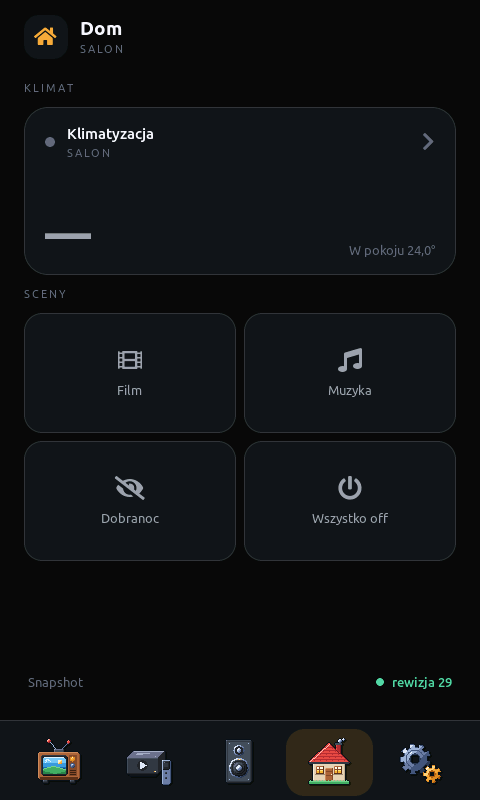
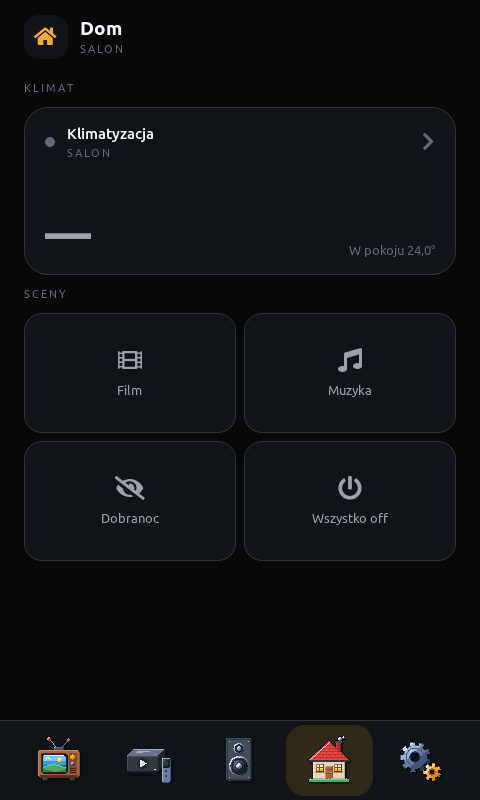
Restyle volume and climate dials after the HA thermostat
Volume dial grows to 296 px with a 22 px arc and a white knob with an
accent border; −/+ move from the sides into the gap at the bottom of
the arc and mute sits above the number. Pending volume no longer turns
the number orange (red stays for failures). The climate thermostat
gets the same −/+ placement.

Also drop the "Snapshot · rewizja N" row from the Home screen (the
revision is still in Diagnostics) and even out the tab bar padding
(4 + 72 + 4 instead of 8 + 68 + 4).

Mockups, Z906 and handoff docs and screenshots 01-05 updated.

diff --git a/docs/ux/mockup-pulpit/pulpit.css b/docs/ux/mockup-pulpit/pulpit.css
@@ -47,7 +47,7 @@
   /* Powłoka ekranu */
   /* 2026-11-03: nagłówek bez paska statusu — wiersz 64 px i 5 px od górnej krawędzi */
   --topbar: 69px;
-  --tabbar: 80px;   /* same ikony: 8 + 68 + 4 */
+  --tabbar: 80px;   /* same ikony: 4 + 72 + 4 */
   --gutter: 24px;
 
   /* Najmniejszy dopuszczalny cel dotyku: 68 px ≈ 8 mm na tym panelu */
@@ -82,7 +82,7 @@ button { font: inherit; color: inherit; border: 0; background: none; padding: 0;
 
 .content { flex: 1; min-height: 0; position: relative; padding: var(--s3) var(--gutter) var(--s4); }
 
-.tabbar { height: var(--tabbar); flex: none; display: grid; grid-auto-flow: column; grid-auto-columns: 1fr; gap: var(--s1); padding: var(--s2) var(--s4) var(--s1); background: var(--surface); border-top: 1px solid var(--line); }
+.tabbar { height: var(--tabbar); flex: none; display: grid; grid-auto-flow: column; grid-auto-columns: 1fr; gap: var(--s1); padding: var(--s1) var(--s4); background: var(--surface); border-top: 1px solid var(--line); }
 .tab { border-radius: var(--r3); color: var(--faint); display: grid; place-items: center; align-content: center; font-size: 0; }
 /* Same ikony, bez podpisów (2026-11-03); podpis zostaje w HTML dla czytników ekranu. */
 .tab i { width: 20px; height: 20px; }
@@ -153,18 +153,18 @@ button { font: inherit; color: inherit; border: 0; background: none; padding: 0;
 
 /* ---------- Tarcza wartości (obrót palcem) ---------- */
 .dial-zone { position: relative; display: grid; place-items: center; }
-.dial { --v: 42; width: 248px; height: 248px; position: relative; display: grid; place-items: center; border-radius: 50%; cursor: grab; touch-action: none; user-select: none;
+.dial { --v: 42; --size: 290px; --ring: 22px; width: var(--size); height: var(--size); position: relative; display: grid; place-items: center; border-radius: 50%; cursor: grab; touch-action: none; user-select: none;
   background: conic-gradient(from 225deg, var(--accent) 0 calc(var(--v) * 2.7deg), var(--surface-3) calc(var(--v) * 2.7deg) 270deg, transparent 270deg 360deg); }
-.dial::before { content: ""; position: absolute; inset: 18px; border-radius: 50%; background: var(--bg); }
+.dial::before { content: ""; position: absolute; inset: var(--ring); border-radius: 50%; background: var(--bg); }
 .dial.is-dragging { cursor: grabbing; }
-.dial-read { position: relative; text-align: center; }
+/* Uchwyt na końcu wypełnienia: jasne koło z obwódką w kolorze akcentu */
+.dial-knob { position: absolute; left: 50%; top: 50%; width: 28px; height: 28px; margin: -14px; border-radius: 50%; background: var(--text); border: 4px solid var(--accent); z-index: 1;
+  transform: rotate(calc(-135deg + var(--v) * 2.7deg)) translateY(calc(var(--size) / -2 + var(--ring) / 2)); }
+.dial-read { position: relative; text-align: center; padding-top: 64px; }
 .dial-read b { display: block; font-size: 64px; line-height: .9; font-weight: 700; letter-spacing: -.04em; font-variant-numeric: tabular-nums; }
 .dial-read span { display: block; margin-top: var(--s2); font-size: var(--t-cap); letter-spacing: .16em; text-transform: uppercase; color: var(--faint); }
-/* −/+ głośności: ten sam przycisk co przy tarczy temperatury, w osi tarczy */
-.dial-zone { width: 100%; }
-.thermo-step.vol-step { top: 50%; bottom: auto; transform: translateY(-50%); }
-.thermo-step.vol-step.minus { left: 0; }
-.thermo-step.vol-step.plus { right: 0; }
+/* −/+ głośności: ten sam przycisk co przy tarczy temperatury */
+.dial-zone { width: 296px; height: 296px; }
 /* Segment z bieżącą wartością (wejście, efekt): nazwa do szerokości, potem wielokropek */
 .value-pick { padding: 0 var(--s3); }
 .value-pick .opt-value { display: block; width: 100%; overflow: hidden; text-overflow: ellipsis; white-space: nowrap; }
@@ -174,7 +174,7 @@ button { font: inherit; color: inherit; border: 0; background: none; padding: 0;
 .decode-pill i { width: 8px; height: 8px; border-radius: 50%; background: var(--faint); }
 .decode-pill.is-on { color: var(--ok); border-color: rgba(86, 214, 160, .45); }
 .decode-pill.is-on i { background: var(--ok); }
-.dial-side { position: absolute; bottom: 2px; left: 50%; transform: translateX(-50%); width: 64px; height: 64px; border-radius: var(--rf); background: var(--surface-2); border: 1px solid var(--line); color: var(--dim); display: grid; place-items: center; }
+.dial-side { position: absolute; top: 76px; left: 50%; transform: translateX(-50%); width: 52px; height: 52px; border-radius: var(--rf); background: var(--surface-2); border: 1px solid var(--line); color: var(--dim); display: grid; place-items: center; }
 .dial-side i { width: 24px; height: 24px; }
 .dial-side.is-on { background: var(--danger-soft); border-color: transparent; color: var(--danger); }
 
@@ -215,6 +215,8 @@ button { font: inherit; color: inherit; border: 0; background: none; padding: 0;
 /* ---------- Stany wspólne dla każdego sterowania ---------- */
 /* oczekiwanie na snapshot */
 .is-pending { animation: pulse-ring 1s ease-in-out infinite; }
+/* Tarcza głośności czeka bez pulsującej obwódki: zmianę widać na łuku */
+.dial.is-pending { animation: none; }
 .level.is-pending { animation: none; }
 .level.is-pending .level-value { color: var(--accent); animation: pulse-fade 1s ease-in-out infinite; }
 /* brak potwierdzenia w czasie */
@@ -336,7 +338,7 @@ button { font: inherit; color: inherit; border: 0; background: none; padding: 0;
 .back:active { background: var(--surface-2); color: var(--text); }
 
 /* ---------- Tarcza temperatury: łuk 270°, otwarty u dołu na przyciski −/+ ---------- */
-.thermo-zone { position: relative; width: 100%; height: 100%; display: grid; place-items: center; }
+.thermo-zone { position: relative; width: 300px; height: 300px; display: grid; place-items: center; }
 .thermo { --f: .4; --size: 300px; --ring: 20px; width: var(--size); height: var(--size); position: relative; display: grid; place-items: center; border-radius: 50%; cursor: grab; touch-action: none; user-select: none;
   background: conic-gradient(from 225deg, var(--accent) 0 calc(var(--f) * 270deg), var(--surface-3) calc(var(--f) * 270deg) 270deg, transparent 270deg 360deg); }
 .thermo::before { content: ""; position: absolute; inset: var(--ring); border-radius: 50%; background: var(--bg); }
@@ -345,8 +347,8 @@ button { font: inherit; color: inherit; border: 0; background: none; padding: 0;
 .thermo-knob { position: absolute; left: 50%; top: 50%; width: 32px; height: 32px; margin: -16px; border-radius: 50%; background: var(--text); border: 5px solid var(--bg);
   transform: rotate(calc(-135deg + var(--f) * 270deg)) translateY(calc(var(--size) / -2 + var(--ring) / 2)); }
 .thermo-scale { position: absolute; bottom: 22px; font-size: var(--t-cap); color: var(--faint); font-variant-numeric: tabular-nums; }
-.thermo-scale.lo { left: 46px; }
-.thermo-scale.hi { right: 46px; }
+.thermo-scale.lo { left: 34px; }
+.thermo-scale.hi { right: 34px; }
 .thermo-read { position: relative; display: grid; justify-items: center; text-align: center; }
 .thermo-action { font-size: var(--t-cap); letter-spacing: .16em; text-transform: uppercase; color: var(--faint); }
 .thermo-value { margin-top: var(--s3); font-size: 64px; line-height: .9; font-weight: 700; letter-spacing: -.04em; font-variant-numeric: tabular-nums; }
@@ -357,10 +359,11 @@ button { font: inherit; color: inherit; border: 0; background: none; padding: 0;
 .thermo.is-pending .thermo-value { color: var(--accent); animation: pulse-fade 1s ease-in-out infinite; }
 .thermo.is-failed { box-shadow: none; }
 .thermo.is-failed .thermo-value { color: var(--danger); }
-.thermo-step { position: absolute; bottom: 0; width: 72px; height: 72px; border-radius: var(--rf); background: var(--surface-2); border: 1px solid var(--line); color: var(--text); display: grid; place-items: center; }
+.thermo-step { position: absolute; bottom: 0; width: 64px; height: 64px; border-radius: var(--rf); background: var(--surface-2); border: 1px solid var(--line); color: var(--text); display: grid; place-items: center; }
 .thermo-step i, .thermo-step svg { width: 26px; height: 26px; }
-.thermo-step.minus { left: 0; }
-.thermo-step.plus { right: 0; }
+/* −/+ w otwarciu łuku u dołu, jak przy tarczy głośności */
+.thermo-step.minus { left: calc(50% - 76px); }
+.thermo-step.plus { right: calc(50% - 76px); }
 .thermo-step:active { background: var(--surface-3); }
 .thermo-step:disabled { opacity: .3; }
 /* Wyłączona albo sam nawiew: temperatura docelowa nie działa, więc tarcza gaśnie */

diff --git a/docs/ux/mockup-pulpit/index.html b/docs/ux/mockup-pulpit/index.html
@@ -121,12 +121,14 @@
           </div>
           <div class="scr-fill">
             <div class="dial-zone">
-              <!-- −/+ o jeden punkt w wolnym miejscu po bokach tarczy; przytrzymanie powtarza -->
-              <button class="thermo-step vol-step minus" type="button" data-vol="-1" aria-label="Ciszej o 1"><i data-lucide="minus" aria-hidden="true"></i></button>
               <div class="dial" id="dial" role="slider" tabindex="0" aria-label="Głośność" aria-valuemin="0" aria-valuemax="100" aria-valuenow="42">
+                <span class="dial-knob" aria-hidden="true"></span>
                 <div class="dial-read"><b class="dial-value">42</b><span>głośność</span></div>
               </div>
+              <!-- −/+ o jeden punkt w otwarciu łuku u dołu; przytrzymanie powtarza -->
+              <button class="thermo-step vol-step minus" type="button" data-vol="-1" aria-label="Ciszej o 1"><i data-lucide="minus" aria-hidden="true"></i></button>
               <button class="thermo-step vol-step plus" type="button" data-vol="1" aria-label="Głośniej o 1"><i data-lucide="plus" aria-hidden="true"></i></button>
+              <!-- wyciszenie nad liczbą -->
               <button class="dial-side" id="mute" type="button" aria-label="Wycisz" aria-pressed="false"><i data-lucide="volume-2" aria-hidden="true"></i></button>
             </div>
           </div>
@@ -167,7 +169,6 @@
             <button class="tile is-tall" type="button" data-value="koniec"><i data-lucide="power" aria-hidden="true"></i><span>Wszystko off</span></button>
           </div>
           <div class="scr-fill"></div>
-          <p class="readout"><span>Snapshot</span><b class="revision is-on">rewizja 41</b></p>
         </section>
 
         <section class="scr" data-scr="settings" aria-label="Ustawienia" hidden>

diff --git a/docs/ux/mockup-pixel/index.html b/docs/ux/mockup-pixel/index.html
@@ -172,7 +172,6 @@
             <button class="tile" type="button" data-key="klimat"><i data-lucide="thermometer" aria-hidden="true"></i><span>Klimat</span></button>
             <button class="tile" type="button" data-key="kamera"><i data-lucide="video" aria-hidden="true"></i><span>Kamera</span></button>
           </div>
-          <p class="readout"><span>Snapshot</span><b class="revision is-on">rewizja 41</b></p>
         </section>
 
         <section class="scr" data-scr="settings" aria-label="Ustawienia" hidden>
@@ -331,7 +330,6 @@
     const linkState = root.querySelector('.st-link');
     linkState.textContent = healthy ? 'online' : 'degraded';
     linkState.classList.toggle('is-live', healthy);
-    root.querySelector('.revision').textContent = `rewizja ${state.revision}`;
 
     root.querySelector('.decode').textContent = state.decode ? 'aktywny' : 'nieaktywny';
     root.querySelector('.decode').classList.toggle('is-on', state.decode);

diff --git a/components/ui/widgets_controls.cpp b/components/ui/widgets_controls.cpp
@@ -11,10 +11,11 @@ using namespace detail;
 
 namespace {
 
-// Tarcza wypełnia miejsce po Decode 5.1 i rzędzie efektów (2026-11-03): 248 px
-// mieści się z −/+ po bokach co do piksela (72 + 20 + 248 + 20 + 72 = 432).
-constexpr int32_t kDialSize = 248;
-constexpr int32_t kDialRing = 18;
+// Tarcza wypełnia miejsce po Decode 5.1 i rzędzie efektów (~320 px wysokości).
+// −/+ siedzą w otwarciu łuku u dołu, więc boki są wolne (2026-11-03).
+constexpr int32_t kDialSize = 296;
+constexpr int32_t kDialRing = 22;
+constexpr int32_t kDialKnobPad = 3;     // uchwyt = szerokość łuku + 2 × 3 = 28 px
 constexpr int32_t kDialDeadZone = 30;   // środek tarczy: kąt jest tam niestabilny
 constexpr int32_t kLevelTrackW = 56;
 constexpr int32_t kLevelTrackH = 170;
@@ -31,11 +32,10 @@ void Dial::set_value(int32_t value) {
 }
 
 void Dial::set_status(domain::ControlStatus status) {
+    // Oczekiwanie bez wyróżnienia: zmianę widać na łuku. Kolor tylko przy błędzie.
     lv_obj_set_style_text_color(
         value_label,
-        status == domain::ControlStatus::Idle ? theme::text()
-        : status == domain::ControlStatus::Pending ? theme::accent()
-                                                   : theme::danger(),
+        status == domain::ControlStatus::Failed ? theme::danger() : theme::text(),
         LV_PART_MAIN);
 }
 
@@ -119,7 +119,8 @@ Dial* make_dial(lv_obj_t* parent, const char* caption, ValueHandler on_change, v
 
     dial->arc = lv_arc_create(dial->root);
     lv_obj_remove_style_all(dial->arc);
-    lv_obj_set_size(dial->arc, kDialSize, kDialSize);
+    // Łuk mniejszy o wystający uchwyt, żeby rodzic go nie przycinał.
+    lv_obj_set_size(dial->arc, kDialSize - 2 * kDialKnobPad, kDialSize - 2 * kDialKnobPad);
     lv_obj_center(dial->arc);
     lv_obj_remove_flag(dial->arc, LV_OBJ_FLAG_CLICKABLE);
     // Łuk z makiety zaczyna się na 225° od godziny dwunastej i obejmuje 270°.
@@ -130,11 +131,18 @@ Dial* make_dial(lv_obj_t* parent, const char* caption, ValueHandler on_change, v
     lv_obj_set_style_arc_color(dial->arc, theme::surface3(), LV_PART_MAIN);
     lv_obj_set_style_arc_width(dial->arc, kDialRing, LV_PART_INDICATOR);
     lv_obj_set_style_arc_color(dial->arc, theme::accent(), LV_PART_INDICATOR);
-    lv_obj_set_style_bg_opa(dial->arc, LV_OPA_TRANSP, LV_PART_KNOB);
-    lv_obj_set_style_pad_all(dial->arc, 0, LV_PART_KNOB);
+    // Uchwyt na końcu wypełnienia: jasne koło z obwódką w kolorze akcentu.
+    lv_obj_set_style_bg_opa(dial->arc, LV_OPA_COVER, LV_PART_KNOB);
+    lv_obj_set_style_bg_color(dial->arc, theme::text(), LV_PART_KNOB);
+    lv_obj_set_style_radius(dial->arc, LV_RADIUS_CIRCLE, LV_PART_KNOB);
+    lv_obj_set_style_pad_all(dial->arc, kDialKnobPad, LV_PART_KNOB);
+    lv_obj_set_style_border_width(dial->arc, 4, LV_PART_KNOB);
+    lv_obj_set_style_border_color(dial->arc, theme::accent(), LV_PART_KNOB);
 
     lv_obj_t* readout = plain(dial->root);
-    lv_obj_set_size(readout, kDialSize - 2 * kDialRing - 8, LV_SIZE_CONTENT);
+    dial->readout = readout;
+    lv_obj_remove_flag(readout, LV_OBJ_FLAG_CLICKABLE);
+    lv_obj_set_size(readout, kDialSize - 2 * kDialRing - 16, LV_SIZE_CONTENT);
     lv_obj_center(readout);
     theme::make_column(readout, theme::kS2);
     lv_obj_set_flex_align(readout, LV_FLEX_ALIGN_CENTER, LV_FLEX_ALIGN_CENTER,
@@ -166,8 +174,10 @@ constexpr int32_t kThermoSize = 300;
 constexpr int32_t kThermoRing = 20;
 constexpr int32_t kThermoKnobPad = 6;      // uchwyt = szerokość łuku + 2 × 6 = 32 px
 constexpr int32_t kThermoDeadZone = 40;
-constexpr int32_t kThermoStepSize = 72;
-constexpr int32_t kThermoHeight = 320;     // łuk + przyciski w jego dolnych rogach
+// −/+ w otwarciu łuku u dołu, jak przy tarczy głośności (2026-11-03).
+constexpr int32_t kThermoStepSize = 64;
+constexpr int32_t kThermoStepGap = 24;
+constexpr int32_t kThermoHeight = kThermoSize;
 constexpr uint32_t kThermoCommitMs = 700;  // tyle po ostatnim stuknięciu idzie polecenie
 
 void thermo_commit(lv_timer_t* timer) {
@@ -256,11 +266,11 @@ void thermo_event(lv_event_t* event) {
     }
 }
 
-lv_obj_t* thermo_step_button(lv_obj_t* parent, const char* symbol, lv_align_t align) {
+lv_obj_t* thermo_step_button(lv_obj_t* parent, const char* symbol, int32_t side) {
     lv_obj_t* button = lv_button_create(parent);
     lv_obj_remove_style_all(button);
     lv_obj_set_size(button, kThermoStepSize, kThermoStepSize);
-    lv_obj_align(button, align, 0, 0);
+    lv_obj_align(button, LV_ALIGN_BOTTOM_MID, side * (kThermoStepSize + kThermoStepGap) / 2, 0);
     lv_obj_set_style_radius(button, LV_RADIUS_CIRCLE, LV_PART_MAIN);
     lv_obj_set_style_bg_opa(button, LV_OPA_COVER, LV_PART_MAIN);
     lv_obj_set_style_bg_color(button, theme::surface2(), LV_PART_MAIN);
@@ -401,9 +411,9 @@ Thermostat* make_thermostat(lv_obj_t* parent, ValueHandler on_change, void* cont
     lv_obj_set_style_border_color(thermo->arc, theme::bg(), LV_PART_KNOB);
 
     thermo->scale_min = small_label(thermo->ring, theme::font_r11(), theme::faint());
-    lv_obj_align(thermo->scale_min, LV_ALIGN_BOTTOM_LEFT, 46, -22);
+    lv_obj_align(thermo->scale_min, LV_ALIGN_BOTTOM_LEFT, 34, -22);
     thermo->scale_max = small_label(thermo->ring, theme::font_r11(), theme::faint());
-    lv_obj_align(thermo->scale_max, LV_ALIGN_BOTTOM_RIGHT, -46, -22);
+    lv_obj_align(thermo->scale_max, LV_ALIGN_BOTTOM_RIGHT, -34, -22);
 
     lv_obj_t* readout = plain(thermo->ring);
     lv_obj_remove_flag(readout, LV_OBJ_FLAG_CLICKABLE);
@@ -428,8 +438,8 @@ Thermostat* make_thermostat(lv_obj_t* parent, ValueHandler on_change, void* cont
 
     thermo->now_label = small_label(readout, theme::font_r13(), theme::dim());
 
-    thermo->minus = thermo_step_button(thermo->root, LV_SYMBOL_MINUS, LV_ALIGN_BOTTOM_LEFT);
-    thermo->plus = thermo_step_button(thermo->root, LV_SYMBOL_PLUS, LV_ALIGN_BOTTOM_RIGHT);
+    thermo->minus = thermo_step_button(thermo->root, LV_SYMBOL_MINUS, -1);
+    thermo->plus = thermo_step_button(thermo->root, LV_SYMBOL_PLUS, 1);
     lv_obj_add_event_cb(
         thermo->minus,
         [](lv_event_t* event) {

diff --git a/components/ui/screens/screen_audio.cpp b/components/ui/screens/screen_audio.cpp
@@ -93,10 +93,13 @@ void on_volume(void* raw, int32_t value, bool) {
     send_value(*static_cast<Context*>(raw), domain::ControlId::ZVolume,
                value > limit ? limit : value);
 }
-// −/+ obok tarczy: krok o jeden punkt. Kolejny liczymy od wartości w toku, żeby
+// −/+ pod tarczą: krok o jeden punkt. Kolejny liczymy od wartości w toku, żeby
 // szybkie stuknięcia i przytrzymanie się sumowały, zanim snapshot je potwierdzi.
 // Kontroler przyjmuje dowolny procent, choć encja w HA deklaruje krok 2.
 constexpr int32_t kVolumeStep = 1;
+// Dwa przyciski mieszczą się między końcami łuku tarczy (296 px, łuk 22 px).
+constexpr int32_t kStepSize = 64;
+constexpr int32_t kStepGap = 24;
 
 void step_volume(Context& context, int32_t delta) {
     const domain::AppState& state = context.controller->state();
@@ -162,18 +165,24 @@ void build_audio(Context& context, lv_obj_t* parent) {
     screen.source = widgets::make_value_segment(selectors, LV_SYMBOL_USB, &on_source, &context);
     screen.effect = widgets::make_value_segment(selectors, LV_SYMBOL_AUDIO, &on_effect, &context);
 
-    // −/+ w wolnym miejscu po bokach tarczy, z powtarzaniem przy przytrzymaniu.
     lv_obj_t* fill = widgets::make_fill(screen.section);
-    lv_obj_set_style_pad_column(fill, theme::kS5, LV_PART_MAIN);
-    widgets::make_step_button(fill, LV_SYMBOL_MINUS, true, &on_volume_down, &context);
     screen.dial = widgets::make_dial(fill, "głośność", &on_volume, &context);
-    widgets::make_step_button(fill, LV_SYMBOL_PLUS, true, &on_volume_up, &context);
 
-    // Wyciszenie siedzi na dole tarczy, tak jak w makiecie.
-    screen.mute = lv_button_create(screen.dial->root);
+    // −/+ w otwarciu łuku u dołu, z powtarzaniem przy przytrzymaniu.
+    lv_obj_t* volume_down = widgets::make_step_button(screen.dial->root, LV_SYMBOL_MINUS, true,
+                                                      &on_volume_down, &context);
+    lv_obj_set_size(volume_down, kStepSize, kStepSize);
+    lv_obj_align(volume_down, LV_ALIGN_BOTTOM_MID, -(kStepSize + kStepGap) / 2, 0);
+    lv_obj_t* volume_up = widgets::make_step_button(screen.dial->root, LV_SYMBOL_PLUS, true,
+                                                    &on_volume_up, &context);
+    lv_obj_set_size(volume_up, kStepSize, kStepSize);
+    lv_obj_align(volume_up, LV_ALIGN_BOTTOM_MID, (kStepSize + kStepGap) / 2, 0);
+
+    // Wyciszenie nad liczbą, w miejscu, które −/+ zwolniły u dołu tarczy.
+    screen.mute = lv_button_create(screen.dial->readout);
+    lv_obj_move_to_index(screen.mute, 0);
     lv_obj_remove_style_all(screen.mute);
-    lv_obj_set_size(screen.mute, 64, 64);
-    lv_obj_align(screen.mute, LV_ALIGN_BOTTOM_MID, 0, -2);
+    lv_obj_set_size(screen.mute, 52, 52);
     lv_obj_set_style_radius(screen.mute, LV_RADIUS_CIRCLE, LV_PART_MAIN);
     lv_obj_set_style_bg_opa(screen.mute, LV_OPA_COVER, LV_PART_MAIN);
     lv_obj_set_style_bg_color(screen.mute, theme::surface2(), LV_PART_MAIN);

diff --git a/components/ui/screens/screen_home.cpp b/components/ui/screens/screen_home.cpp
@@ -34,27 +34,9 @@ void build_home(Context& context, lv_obj_t* parent) {
 
     widgets::make_cap(screen.section, "SCENY");
     screen.scenes = widgets::make_tiles(screen.section, kScenes, 4, 2, 120, &on_scene, &context);
-
-    lv_obj_t* fill = widgets::make_fill(screen.section);
-    lv_obj_set_height(fill, 0);
-
-    screen.revision = widgets::make_readout(screen.section, "Snapshot");
 }
 
 void render_home(Context& context) {
-    HomeScreen& screen = context.home;
-    const domain::AppState& state = context.controller->state();
-
-    char text[32];
-    const bool fresh = state.phase() == domain::LinkPhase::Ready;
-    if (fresh) {
-        lv_snprintf(text, sizeof(text), "rewizja %d",
-                    static_cast<int>(state.snapshot().revision));
-    } else {
-        lv_snprintf(text, sizeof(text), "brak");
-    }
-    screen.revision.set(text, fresh);
-
     render_climate(context);
 }
 

diff --git a/components/ui/shell.cpp b/components/ui/shell.cpp
@@ -152,9 +152,9 @@ void build_tabbar(Context& context) {
     lv_obj_set_style_border_width(shell.tabbar, 1, LV_PART_MAIN);
     lv_obj_set_style_border_side(shell.tabbar, LV_BORDER_SIDE_TOP, LV_PART_MAIN);
     lv_obj_set_style_border_color(shell.tabbar, theme::line(), LV_PART_MAIN);
-    // 8 + 68 + 4: zakładka ma najmniejszy dopuszczalny cel dotyku, a ikona 48 px
-    // siedzi w nim na środku.
-    lv_obj_set_style_pad_top(shell.tabbar, theme::kS2, LV_PART_MAIN);
+    // 4 + 72 + 4: odstęp nad i pod zaznaczoną zakładką wygląda tak samo (nad nią
+    // jest jeszcze 1 px linii), a ikona 48 px siedzi w niej na środku.
+    lv_obj_set_style_pad_top(shell.tabbar, theme::kS1, LV_PART_MAIN);
     lv_obj_set_style_pad_bottom(shell.tabbar, theme::kS1, LV_PART_MAIN);
     lv_obj_set_style_pad_hor(shell.tabbar, theme::kS4, LV_PART_MAIN);
     theme::make_row(shell.tabbar, theme::kS1);

diff --git a/components/ui/include/ui/widgets.hpp b/components/ui/include/ui/widgets.hpp
@@ -83,6 +83,7 @@ Tiles make_tiles(lv_obj_t* parent, const TileSpec* specs, std::size_t count, int
 struct Dial {
     lv_obj_t* root = nullptr;
     lv_obj_t* arc = nullptr;
+    lv_obj_t* readout = nullptr;  // kolumna w środku łuku: wartość i podpis
     lv_obj_t* value_label = nullptr;
     lv_obj_t* caption = nullptr;
 

diff --git a/components/ui/ui_internal.hpp b/components/ui/ui_internal.hpp
@@ -174,7 +174,6 @@ struct StartScreen {
 struct HomeScreen {
     lv_obj_t* section = nullptr;
     widgets::Tiles scenes;
-    widgets::Readout revision;
 };
 
 // ---------- Ekran Więcej ----------

diff --git a/docs/operations/ai-handoff.en.md b/docs/operations/ai-handoff.en.md
@@ -435,6 +435,18 @@ from the grids in `pixel-icons.js`). Flashed; clean boot. The look on the remote
   and only from fresh state). Space recovered: dial 208 → 248 px (readout 64 px),
   channel columns 80 → 140 px (full range: 160 px of finger travel).
 
+Later that day (model: the HA thermostat dial, a screenshot from the user):
+- Volume dial 248 → 296 px, arc 18 → 22 px, a knob at the end of the fill (white circle
+  with an accent-coloured border). −/+ (64 px) moved from the sides into the gap at the
+  bottom of the arc, mute (52 px) above the number (`Dial::readout`).
+- Waiting for volume confirmation no longer turns the number orange (user request); red
+  stays for a failure. In the mockup the dial no longer pulses an outline.
+- Air conditioning: the thermostat −/+ also sit in the arc gap (64 px), the 16°/31° scale
+  moved out under the arc ends, `kThermoHeight` = 300.
+- The `DOM` screen no longer has the "Snapshot · rewizja N" row — the revision is in Diagnostics.
+- Tab bar: top padding 8 → 4 px (4 + 72 + 4), because there was clearly more space above
+  the selected tab than below it.
+
 ## Weather on the start screen — 2026-11-03
 
 [ADR 0011](../architecture/adr/0011-weather-on-start-screen.en.md): the bridge publishes
@@ -463,7 +475,7 @@ channel tiles and Apple TV app tiles 88 → 100 px, trackpad 360 → 400 px, Z90
 Fixes the same day: the tab icons came back (without them it looked odd, and the gain was small) —
 `kTabbar` 96 again; 5 px above the header row (`kTopbarPad`), because the power button touched
 the edge; `kTopbar` = 69. At the end of the day the tab captions disappeared — icons only, 48 px,
-`kTabbar` = 80 (8 + 68 + 4). Content: 623 px. The Apple TV app tiles are above the trackpad,
+`kTabbar` = 80 (8 + 68 + 4; since the evening of 2026-11-03 4 + 72 + 4). Content: 623 px. The Apple TV app tiles are above the trackpad,
 the size of the TV channel shortcuts (80 × 100), centred.
 
 Later that day the TV channel shortcuts and the Apple TV app tiles were reduced to an

diff --git a/docs/integrations/z906.md b/docs/integrations/z906.md
@@ -23,7 +23,7 @@ _Odczyt tylko do odczytu z 2026-10-29. To referencja dla UI; pilot nadal będzie
 - `Mute` jest małym przyciskiem akcji z jednoznacznym stanem, nie kaflem „dźwięk aktywny”.
 - `Decode 5.1` jest wskaźnikiem informacji, nigdy przełącznikiem.
 - Wszystkie cztery suwaki używają kroku 2 i rzeczywistych wartości 0–100; nie pokazujemy sztucznego balansu `+/-`.
-- Wyjątek: przyciski −/+ po bokach tarczy głośności zmieniają ją o 1 (2026-11-03, prośba
+- Wyjątek: przyciski −/+ w otwarciu łuku tarczy głośności zmieniają ją o 1 (2026-11-03, prośba
   użytkownika). Kontroler przyjmuje dowolny procent mimo `step: 2` w encji HA — w HA widać
   było wartość 23. Przytrzymanie przycisku powtarza krok; tarcza nadal chodzi co 2.
 - Źródło i efekt są wyborami ze ściśle określonej listy. UI nie tworzy własnych nazw trybów.
